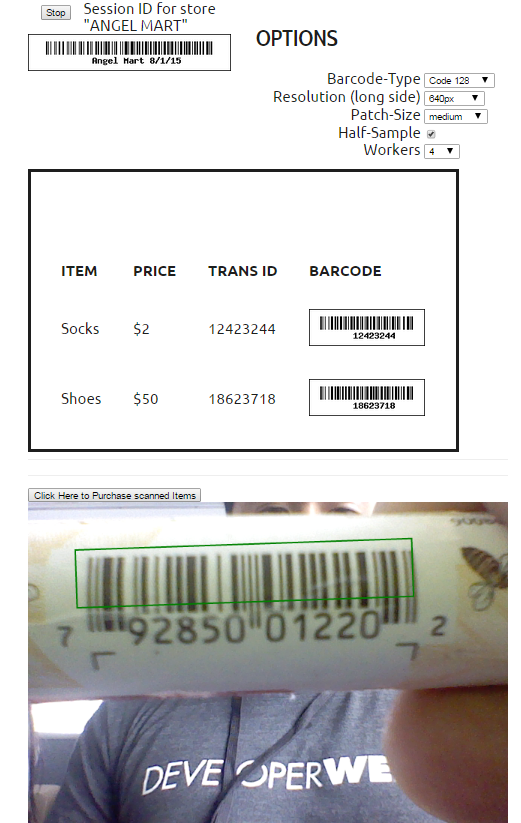
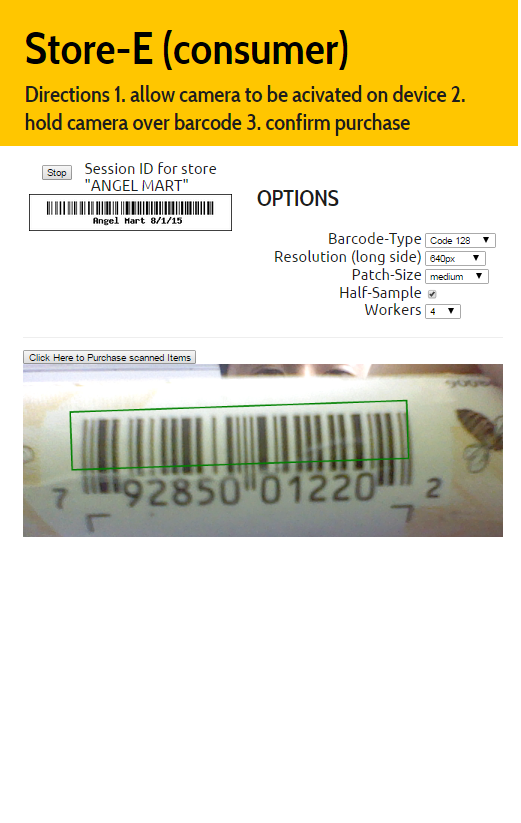
added store e

diff --git a/blog-posts/Links.html b/blog-posts/Links.html
@@ -53,7 +53,7 @@
 	
 
 			<a href="http://tinyurl.com/angelhack2015">Store-E</a><br><br>
-					<span ><center class = "descripts"><p>This app contains a barcode scanning system that works  on any type of platfrom with a camera including desktops, tablets, and phones  </p></center>  </span><br> 
+					<span ><center class = "descripts"><p>This app contains a universal barcode scanning system that works  on any type of platfrom with a camera including desktops, tablets, and phones. To run , simply allow access to your device camera and hold a barcode in front until the image is captured.   </p></center>  </span><br> 
 					<a href="http://tinyurl.com/angelhack2015"><img src="http://nickperez1285.github.io/website-files/store-E.png" width="500" height="600"></a>
 					<br><br><br><hr>
 
